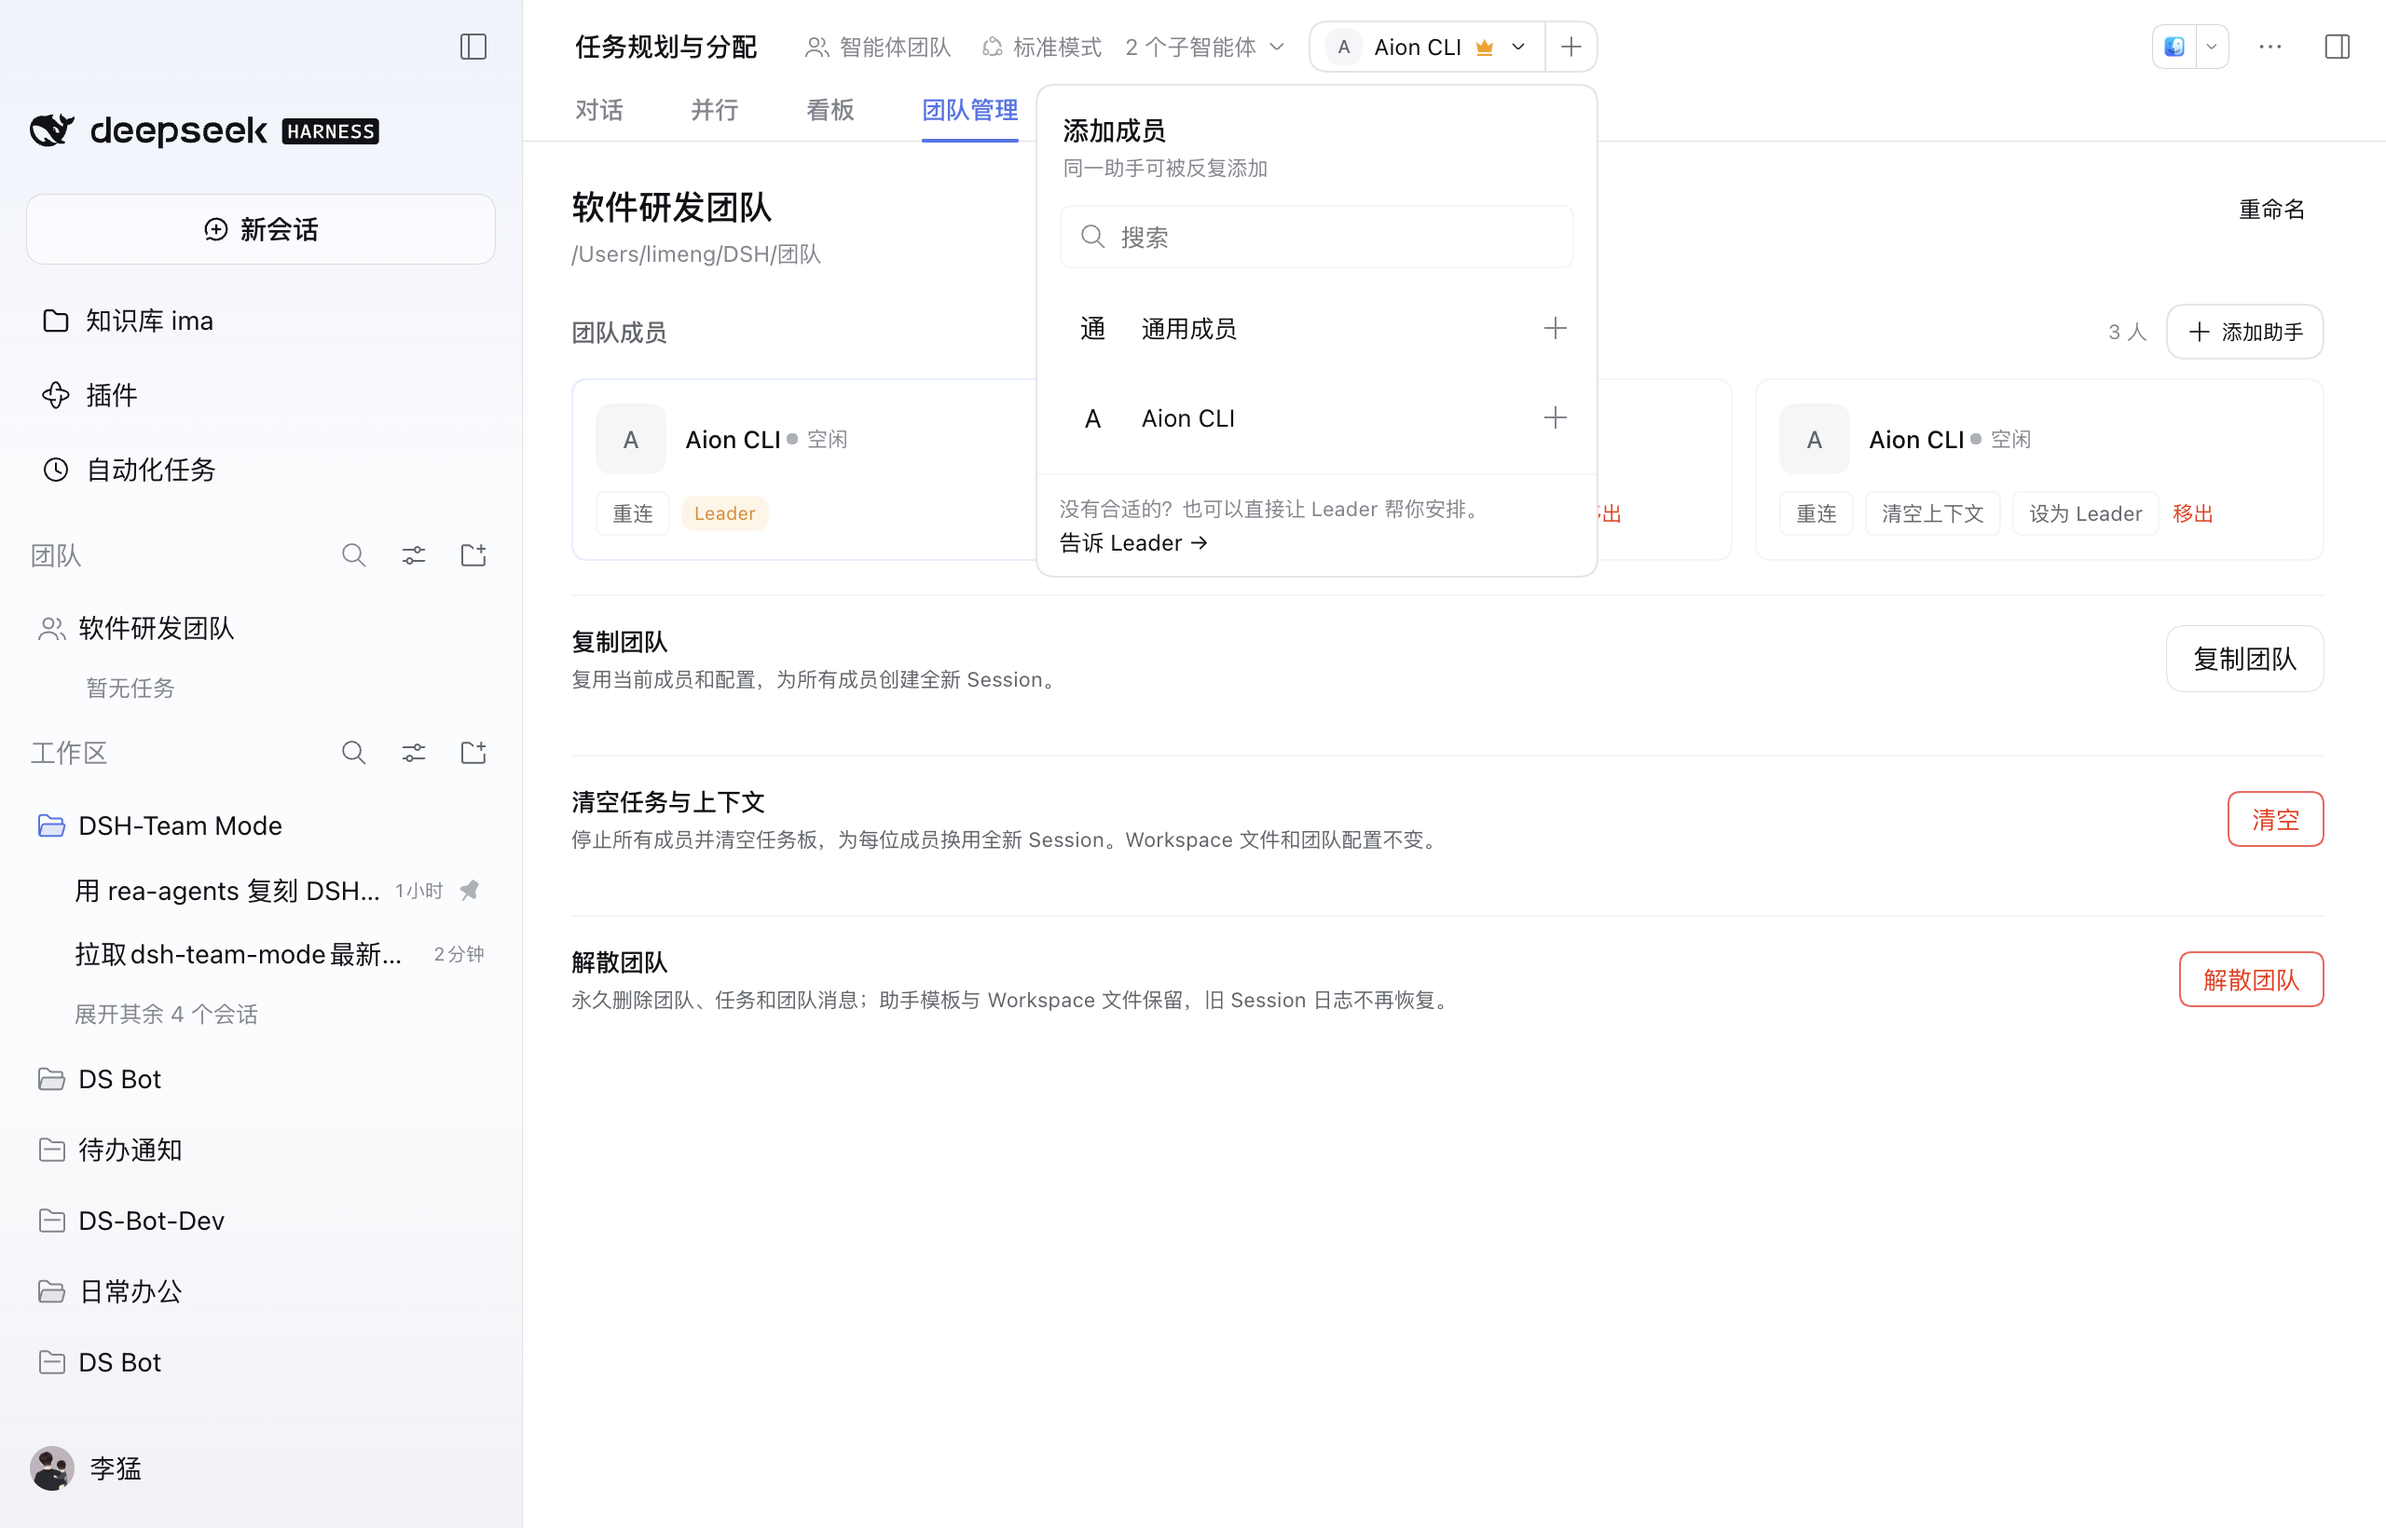
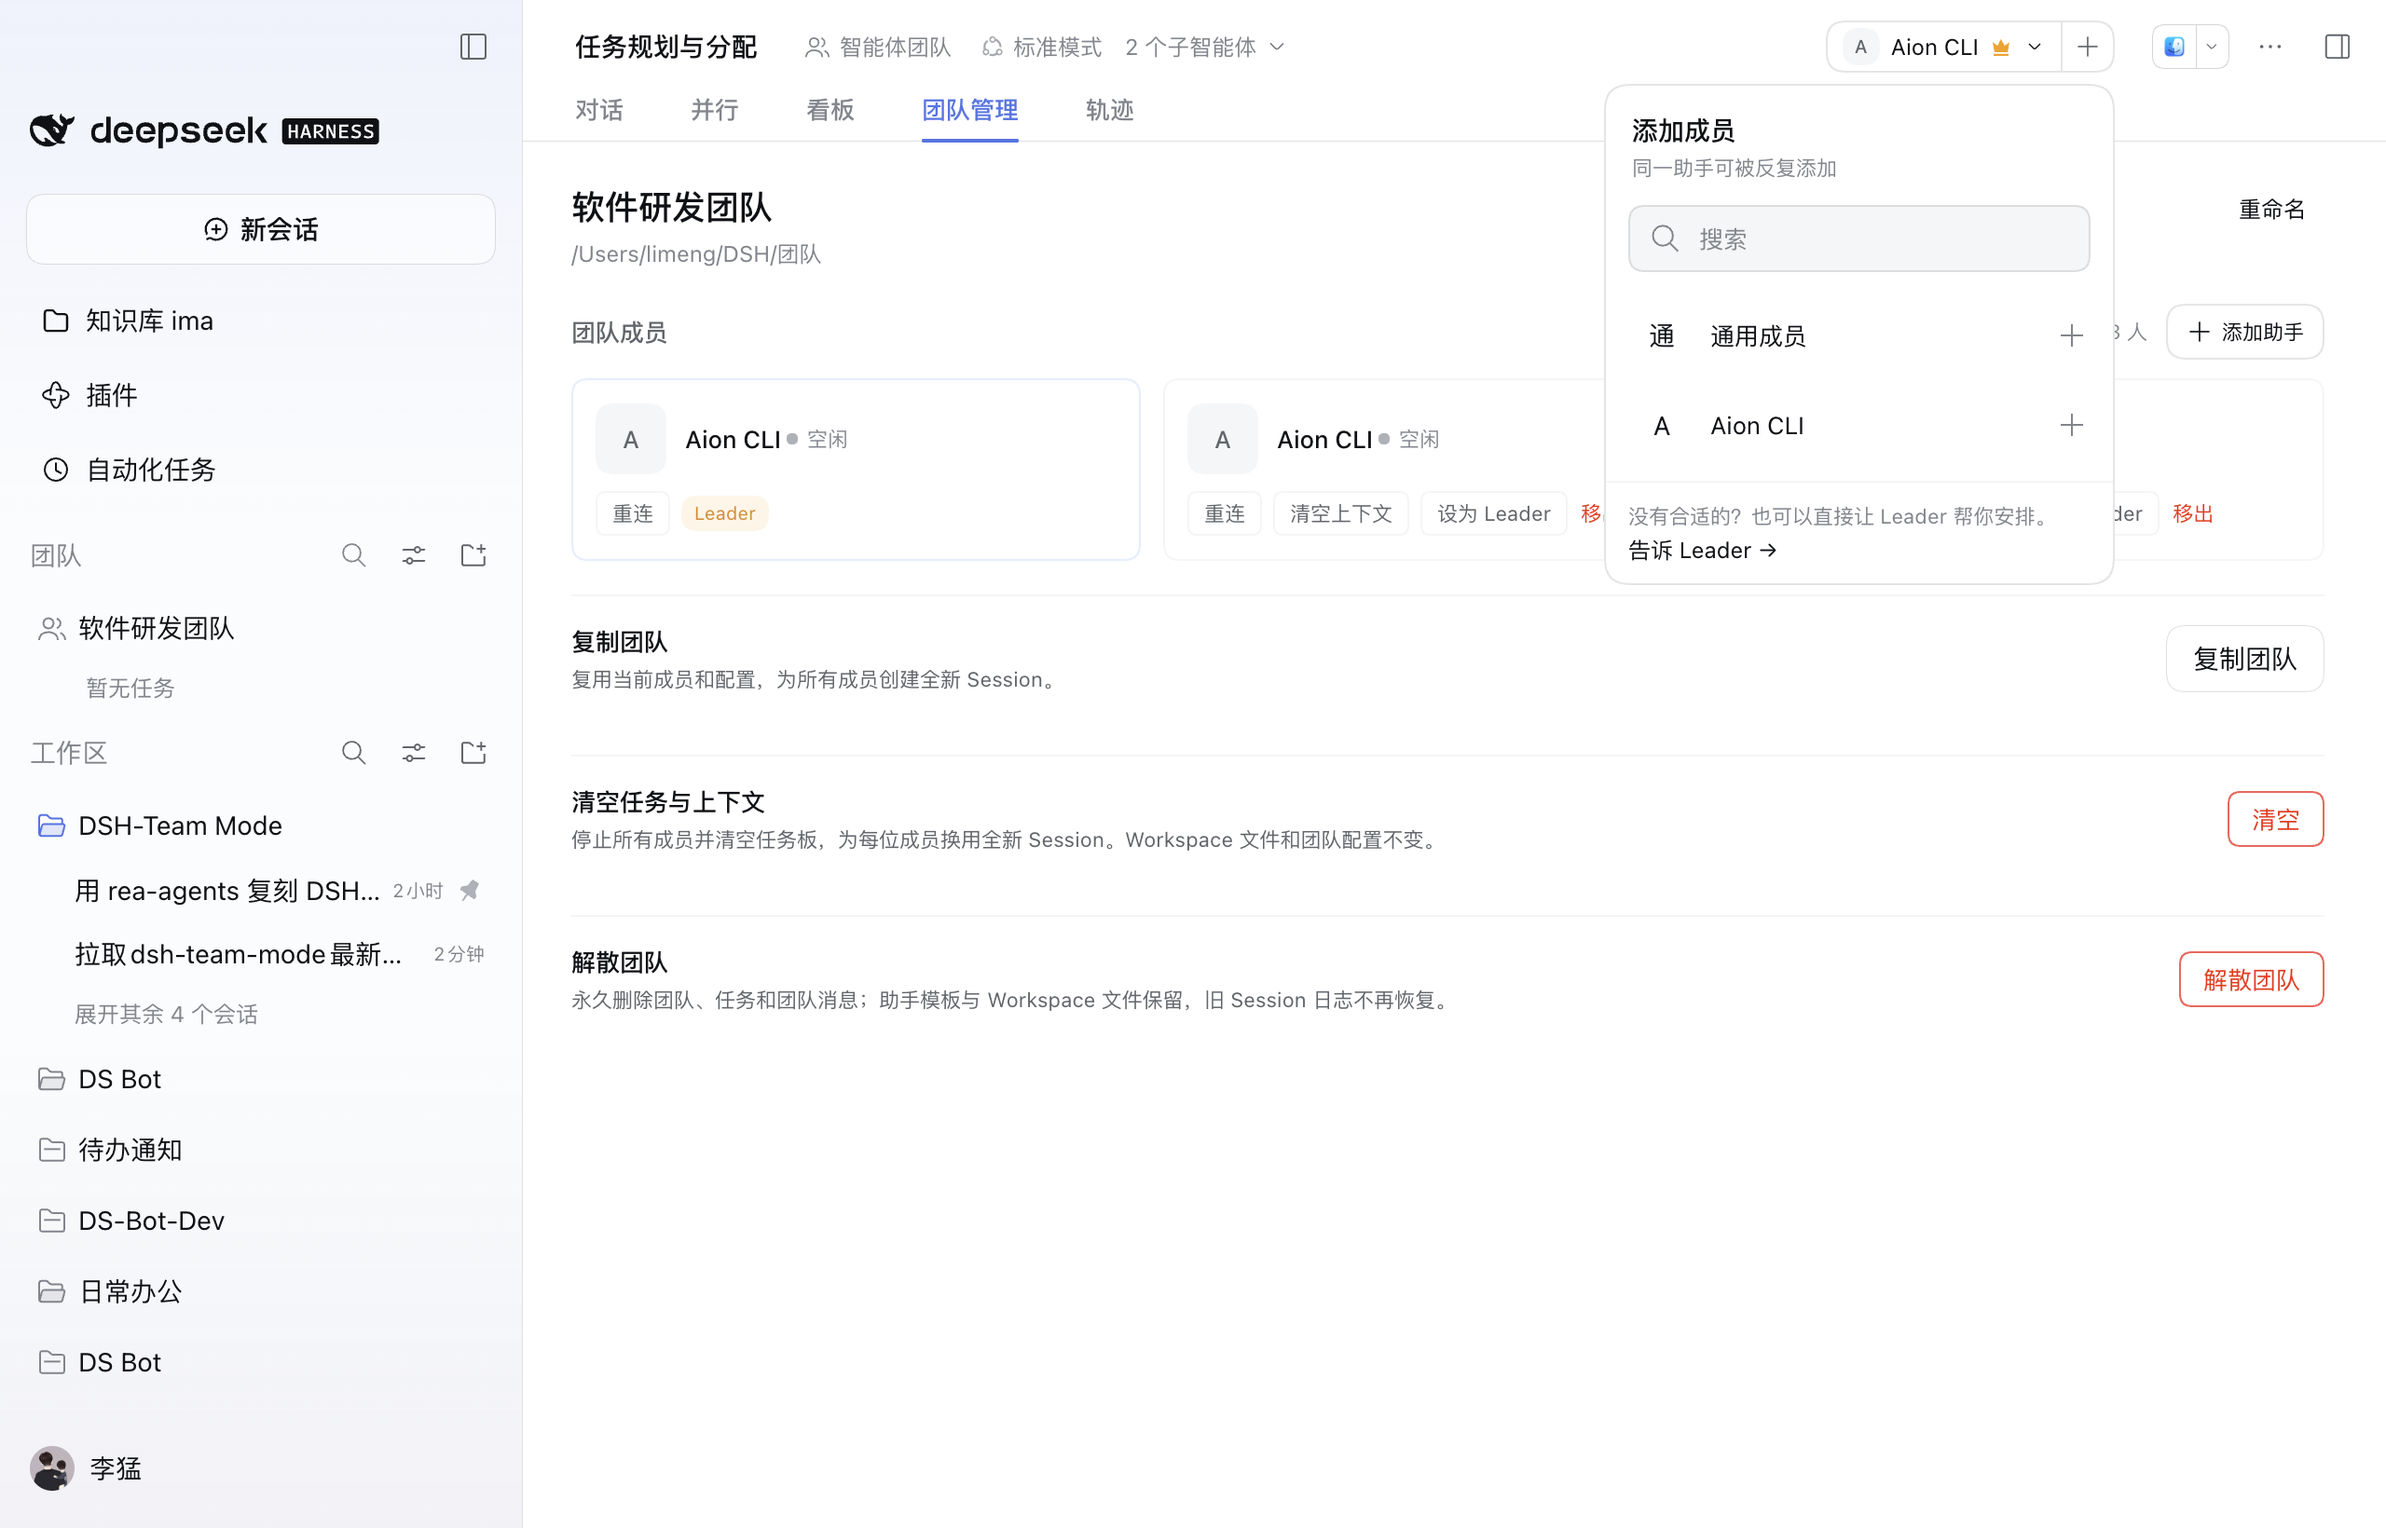
style(ui): polish add-member panel and right-align the member selector

diff --git a/src/client/AgentTeam.module.css b/src/client/AgentTeam.module.css
@@ -5284,13 +5284,13 @@ html:has([data-team-parallel-anchor]) [class*="teamMemberHeroHint"] {
   top: calc(100% + 6px);
   right: 0;
   z-index: 61;
-  width: 300px;
-  max-height: 440px;
+  width: 272px;
+  max-height: 420px;
   display: flex;
   flex-direction: column;
   overflow: hidden;
   border: 1px solid var(--dsw-alias-border-l2);
-  border-radius: 12px;
+  border-radius: var(--dsw-radius-lg);
   background: var(--dsw-alias-bg-layer-1);
   box-shadow: var(--dsw-alias-shadow-l1);
 }
@@ -5319,14 +5319,18 @@ html:has([data-team-parallel-anchor]) [class*="teamMemberHeroHint"] {
   display: flex;
   flex: none;
   align-items: center;
-  gap: 6px;
-  margin: 4px 12px 8px;
-  height: 32px;
-  padding: 0 10px;
-  border: 1px solid var(--dsw-alias-border-l1);
-  border-radius: 8px;
-  background: var(--dsw-alias-bg-layer-2);
+  gap: 8px;
+  margin: 4px 12px 10px;
+  height: 36px;
+  padding: 0 12px;
+  border: 0;
+  border-radius: 10px;
+  background: var(--dsw-alias-bg-module-platform);
   color: var(--dsw-alias-label-tertiary);
+}
+
+.memberAddSearch:focus-within {
+  box-shadow: inset 0 0 0 1px var(--dsw-alias-border-l2);
 }
 
 .memberAddSearch input {
@@ -5338,6 +5342,11 @@ html:has([data-team-parallel-anchor]) [class*="teamMemberHeroHint"] {
   color: var(--dsw-alias-label-primary);
   font: inherit;
   font-size: 13px;
+}
+
+.memberAddSearch input::placeholder {
+  color: var(--dsw-alias-label-tertiary);
+  opacity: 1;
 }
 
 .memberAddList {
@@ -5451,4 +5460,16 @@ html:has([data-team-parallel-anchor]) [class*="teamMemberHeroHint"] {
 
 .memberAddFooterLink:hover {
   text-decoration: underline;
+}
+
+/* Keep the team member selector at the far right of the session title cluster,
+   immediately left of the host's own header utilities. The native
+   `headerActions` slot wraps our group, so let it grow and push the group over. */
+[class*="headerActions"]:has([class*="teamSwitcherGroup"]) {
+  flex: 1;
+  min-width: 0;
+}
+
+[class*="teamSwitcherGroup"] {
+  margin-left: auto;
 }

diff --git a/src/client/team-member-chrome.tsx b/src/client/team-member-chrome.tsx
@@ -227,7 +227,7 @@ export function TeamMemberSwitcher({
             <span>同一助手可被反复添加</span>
           </div>
           <div className={css.memberAddSearch}>
-            <IconSearchOutlineRegular size={14} />
+            <IconSearchOutlineRegular size={16} />
             <input
               autoFocus
               value={addQuery}

diff --git a/docs/UI-REVIEW.md b/docs/UI-REVIEW.md
@@ -156,3 +156,14 @@
 验证（Harness）：触发器 `right=857, bottom=39`；面板 `right=857, top=45`（6px 间距）；默认 2 个助手行；搜索后行数收敛；`Esc` 关闭。
 
 截图：`docs/assets/ui-review/add-member-panel.png`。
+
+---
+
+## 十三、成员选择器与添加面板的形状对齐
+
+- 成员选择器靠右：团队会话标题栏里让原生 `headerActions`（包含成员选择器）占满标题簇，选择器 `margin-left:auto`，最终停在宿主右侧图标组左边（实测选择器右缘 `1135`，右侧工具组从约 `1200` 开始）。
+- 选择器圆角沿用 DSH token `--dsw-radius-md`（12px），与原生 trigger 一致；「+」与选择器共用外圆角。
+- 添加成员面板收窄到 272px（实测含边框 274px），最大高 420px；面板圆角改用原生菜单的 `--dsw-radius-lg`（16px）。
+- 搜索框改成 AionUI 风格：36px 高、无边框、`--dsw-alias-bg-module-platform` 填充（实测 `rgb(245,246,247)`）、圆角 10px、图标 16px；聚焦时仅有 1px 内描边。
+
+截图更新：`docs/assets/ui-review/add-member-panel.png`（含选择器靠右与面板最终形态）。
